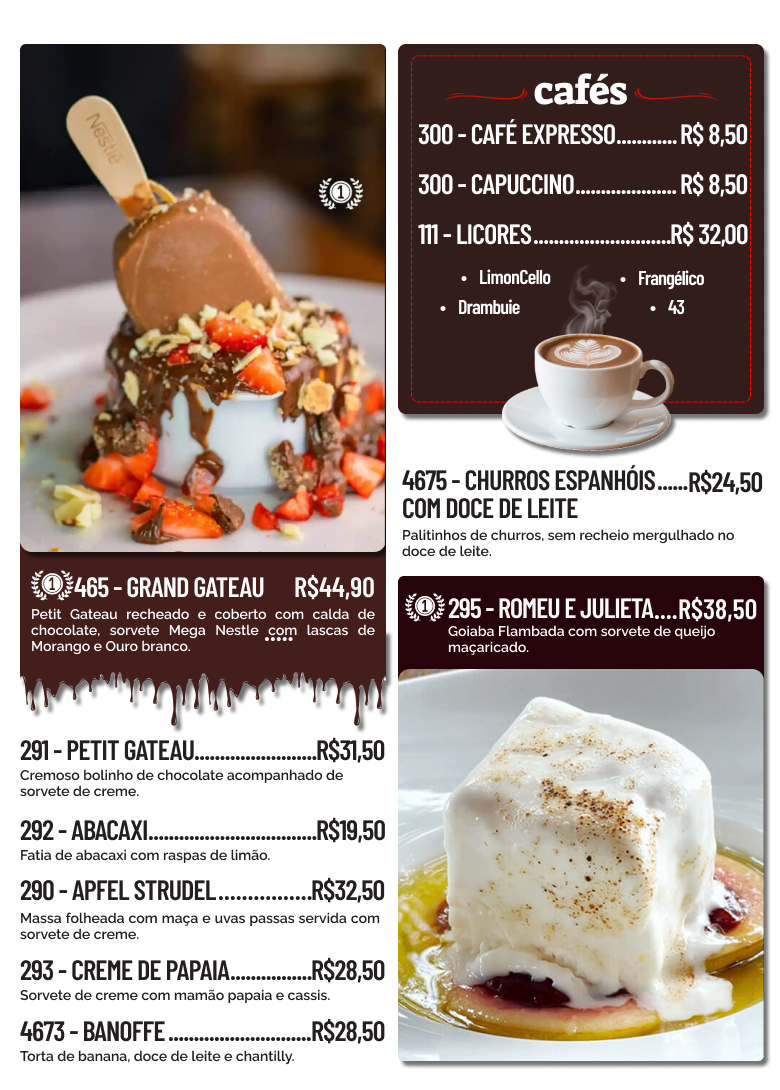
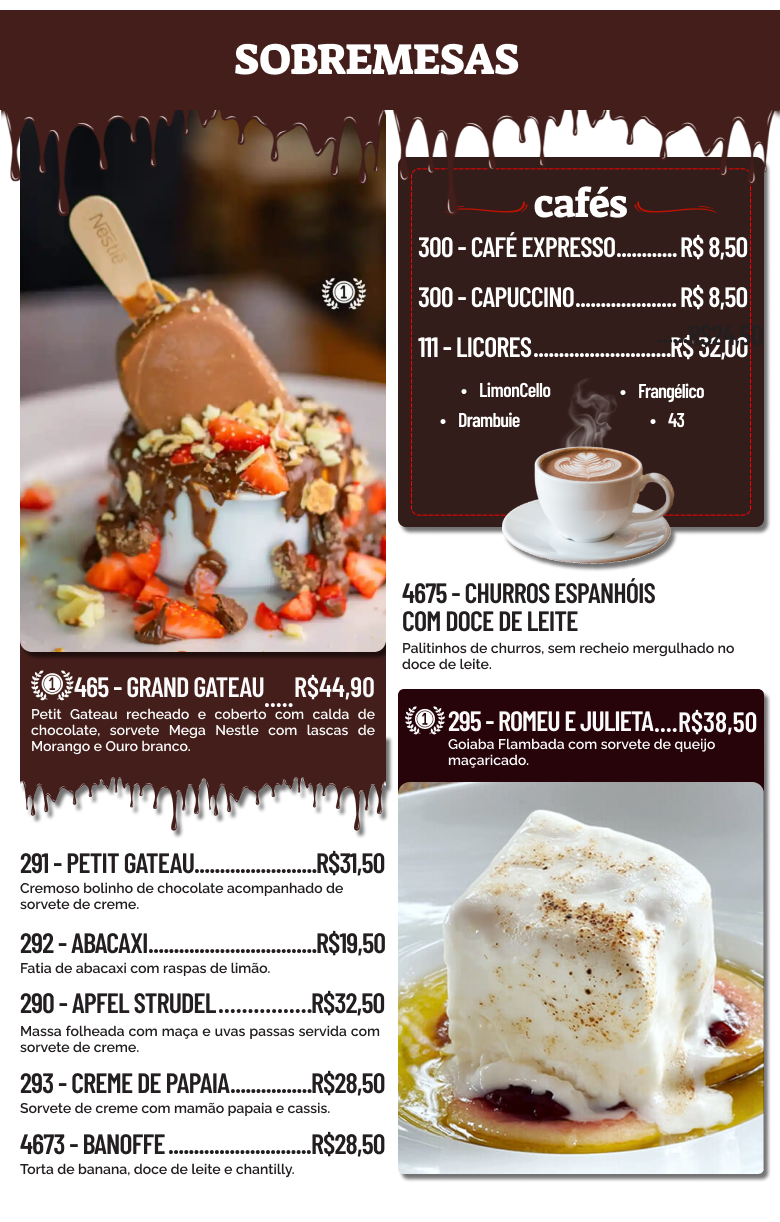
alteração cardapio secao parmegianas

diff --git a/cardapio/index.html b/cardapio/index.html
@@ -313,9 +313,7 @@
             </div>
         </section>
         <section class="sobremesas menu-section" id="sobremesas">
-            <div class="title title-sobremesas">
-                <h2>sobremesas</h2>
-            </div>
+          
             <img src="assets/img/sobremesas.webp" loading="lazy" alt="menu sobremesas">
         </section>
         <section class="bebidas menu-section" id="bebidas">
